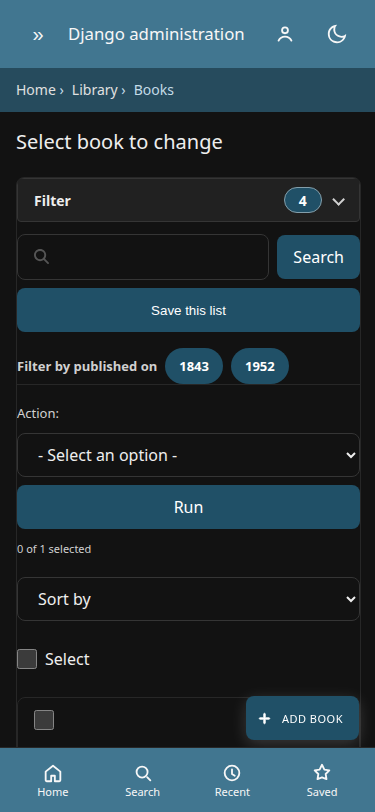
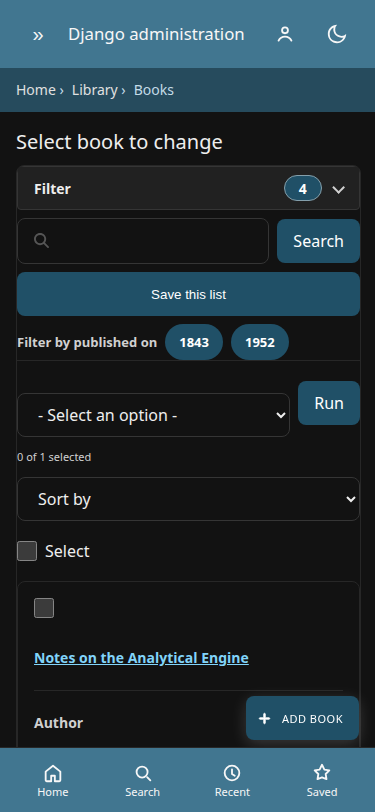
Give changelist controls a shared 16px inset.
Filter text, both selects, and the result card now keep 16px inside the same left and right edge. Rows sit 8px apart, so the book title stays above the Add button.

diff --git a/src/admin_mobile/static/admin_mobile/css/admin_mobile_features.css b/src/admin_mobile/static/admin_mobile/css/admin_mobile_features.css
@@ -1337,6 +1337,105 @@ html[data-theme="auto"].admin-mobile {
         border-radius: var(--am-radius);
         border: 1px solid var(--am-line);
     }
+
+    /* Changelist: one 16px page inset, 8px between rows, identical select padding. */
+    html.admin-mobile body.change-list #content {
+        padding: var(--am-pad);
+    }
+
+    html.admin-mobile body.change-list #content h1 {
+        margin: 0 0 var(--am-space);
+    }
+
+    html.admin-mobile body.change-list #toolbar,
+    html.admin-mobile body.change-list #changelist .actions,
+    html.admin-mobile body.change-list .toplinks,
+    html.admin-mobile body.change-list .admin-mobile-sort,
+    html.admin-mobile body.change-list .admin-mobile-select-all,
+    html.admin-mobile body.change-list .admin-mobile-filter-toggle {
+        width: 100%;
+        max-width: 100%;
+        margin: 0 0 var(--am-space);
+        box-sizing: border-box;
+    }
+
+    html.admin-mobile body.change-list .admin-mobile-filter-toggle {
+        padding: 0 var(--am-pad);
+    }
+
+    html.admin-mobile body.change-list .toplinks,
+    html.admin-mobile body.change-list .admin-mobile-select-all,
+    html.admin-mobile body.change-list #changelist .actions .action-counter {
+        padding: 0;
+        margin-left: 0;
+        margin-right: 0;
+    }
+
+    html.admin-mobile body.change-list #changelist .actions {
+        display: grid;
+        grid-template-columns: minmax(0, 1fr) auto;
+        align-items: center;
+        gap: var(--am-space);
+    }
+
+    html.admin-mobile body.change-list #changelist .actions label {
+        display: block;
+        grid-column: 1;
+        grid-row: 1;
+        width: 100%;
+        margin: 0;
+        font-size: 0;
+    }
+
+    html.admin-mobile body.change-list #changelist .actions select,
+    html.admin-mobile body.change-list .admin-mobile-sort select {
+        display: block;
+        width: 100%;
+        height: var(--am-tap);
+        min-height: var(--am-tap);
+        margin: 0;
+        padding: 0 var(--am-pad);
+        font-size: 16px;
+        box-sizing: border-box;
+    }
+
+    html.admin-mobile body.change-list #changelist .actions .button,
+    html.admin-mobile body.change-list #changelist .actions button {
+        grid-column: 2;
+        grid-row: 1;
+        width: auto;
+        height: var(--am-tap);
+        margin: 0;
+        padding: 0 var(--am-pad);
+    }
+
+    html.admin-mobile body.change-list #changelist .actions .action-counter {
+        grid-column: 1 / -1;
+        grid-row: 2;
+        margin: 0;
+        padding: 0;
+    }
+
+    html.admin-mobile body.change-list .toplinks {
+        align-items: center;
+        gap: var(--am-space);
+    }
+
+    html.admin-mobile body.change-list .admin-mobile-select-all {
+        min-height: var(--am-tap);
+        padding: 0;
+    }
+
+    html.admin-mobile-cards body.change-list #result_list tbody tr {
+        margin: 0;
+        padding: var(--am-pad);
+    }
+
+    html.admin-mobile-cards body.change-list #result_list .action-checkbox {
+        min-height: 0;
+        padding: 0 0 var(--am-space);
+        border: 0;
+    }
 }
 
 @keyframes admin-mobile-spin {
